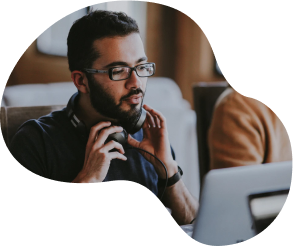
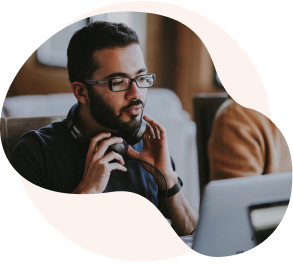
Section and container tweaked.

diff --git a/src/scss/components/_find-out-more.scss b/src/scss/components/_find-out-more.scss
@@ -1,5 +1,4 @@
 .find-out-more {
-    margin-bottom: 100px;
     background-color: $primary-light-2;
 
     >a {
@@ -37,7 +36,6 @@
     }
 
     @media (min-width: $breakpoint-medium) {
-        margin-bottom: 115px;
 
         h2>span {
             &::before {
@@ -47,7 +45,6 @@
 
         &.left {
             padding: 50px 50px 50px 345px;
-            margin-bottom: 140px;
 
             img {
                 width: 170px;

diff --git a/src/scss/components/_notification.scss b/src/scss/components/_notification.scss
@@ -1,5 +1,4 @@
 .notification {
-    margin: 100px 0;
 
     h3 {
         margin-top: 22px;
@@ -21,7 +20,6 @@
         padding: 0 10px 0 0;
     }
     @media (min-width: $breakpoint-medium) {
-        margin: 140px 0 120px;
 
         .uk-card {
             padding: 40px;

diff --git a/src/scss/abstracts/uikit/_card.scss b/src/scss/abstracts/uikit/_card.scss
@@ -40,12 +40,6 @@
 @mixin hook-card-media-top {
     padding: 28px 23px 60px;
     min-height: 290px;
-
-    @include light-circle(260px);
-
-    &::before {
-        top: 24px;
-    }
 }
 
 @mixin hook-card-media-right {
